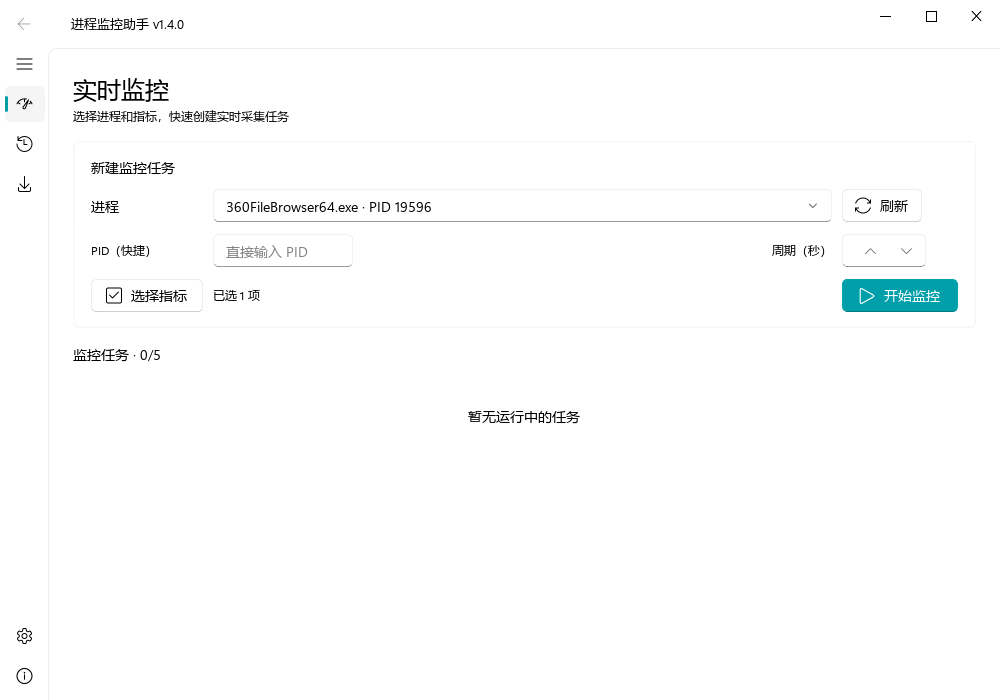
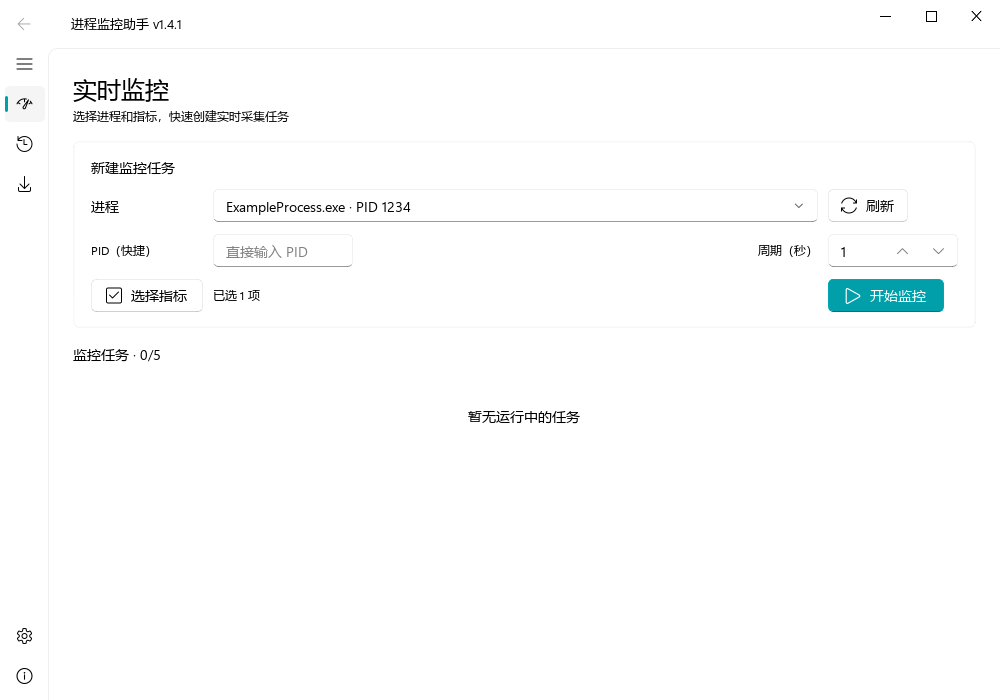
修复周期输入框显示并发布 v1.4.1

diff --git a/tests/test_monitor_ui_contract.py b/tests/test_monitor_ui_contract.py
@@ -1,0 +1,20 @@
+"""实时监控页 Fluent 布局契约。"""
+
+from ui.pages.monitor_page import MonitorPage
+
+
+def test_interval_spinbox_keeps_maximum_value_visible(qapp, monkeypatch):
+    """周期输入框必须为范围最大值保留完整的文本编辑区域。"""
+    monkeypatch.setattr(MonitorPage, "_refresh_process_list", lambda self: None)
+    page = MonitorPage()
+    page.resize(800, 600)
+    page.show()
+
+    spinbox = page.interval_spinbox
+    spinbox.setValue(spinbox.maximum())
+    qapp.processEvents()
+
+    value_width = spinbox.fontMetrics().horizontalAdvance(spinbox.text())
+    assert spinbox.lineEdit().width() >= value_width
+
+    page.close()

diff --git a/ui/pages/monitor_page.py b/ui/pages/monitor_page.py
@@ -393,7 +393,8 @@ class MonitorPage(QScrollArea):
         self.interval_spinbox = SpinBox()
         self.interval_spinbox.setRange(1, 3600)  # 1-3600秒
         self.interval_spinbox.setValue(cfg.get(cfg.default_interval))  # 默认值取自设置页
-        self.interval_spinbox.setFixedWidth(84)
+        # 普通 Fluent SpinBox 横排两个步进按钮，宽度交由其尺寸提示计算，
+        # 避免紧凑布局把内部数值编辑区压缩为 0。
         select_layout.addWidget(self.interval_spinbox, 2, 3)
 
         # 监控指标选择（弹出多选对话框）

diff --git a/config.py b/config.py
@@ -8,7 +8,7 @@ import os
 
 # 应用信息
 APP_NAME = "进程监控助手"
-APP_VERSION = "1.4.0"
+APP_VERSION = "1.4.1"
 
 # GitHub 仓库信息（自动更新用）
 GITHUB_OWNER = "liujialu0330"

diff --git a/doc/代码架构说明.md b/doc/代码架构说明.md
@@ -211,7 +211,7 @@ ProcessMonitor/
 │   ├── crash_handler.py         # 全局异常兜底与崩溃日志（v1.2.0新增）
 │   └── thread_utils.py          # 后台QThread收尾清理工具（v1.2.0新增）
 │
-├── tests/                       # 自动化测试（v1.2.0新增基座，当前100个用例）
+├── tests/                       # 自动化测试（v1.2.0新增基座，当前101个用例）
 │   ├── conftest.py              # 公共fixture（临时数据库、app_config重置等）
 │   ├── test_database.py         # 数据层基础操作 + since_iso/统计/占用/压缩（v1.3.0扩展）
 │   ├── test_migration.py        # Schema迁移三态
@@ -222,6 +222,7 @@ ProcessMonitor/
 │   ├── test_flush_retry.py      # 落库失败重试
 │   ├── test_stop_race.py        # 停止时序竞态
 │   ├── test_monitor_page_no_query.py  # 采集计数内存自增（不查库）
+│   ├── test_monitor_ui_contract.py    # 监控页周期输入框数值可见性契约（v1.4.1新增）
 │   ├── test_app_config.py       # app_config持久化/默认值/回落（v1.3.0新增）
 │   ├── test_pause_resume.py     # MonitorTask暂停/恢复行为（v1.3.0新增）
 │   ├── test_sparkline.py        # SparklineWidget绘制不崩溃（v1.3.0新增）
@@ -253,7 +254,7 @@ ProcessMonitor/
 | `ui/main_window.py` | 380 | FluentWindow主窗口（五页导航、系统托盘、孤儿任务校正、closeEvent try/finally清理，v1.3.0大幅扩充） | PyQt5, qfluentwidgets, utils.thread_utils, app_config |
 | `ui/chart_theme.py` | 31 | 图表主题配色助手（**v1.3.0新增**，按浅/深色主题返回历史页图表配色） | qfluentwidgets |
 | `ui/typography.py` | 115 | **v1.4.0新增**应用级字体栈与排版token（24/16/14/12px），统一Fluent、原生Qt和pyqtgraph的字体继承 | PyQt5, qfluentwidgets |
-| `ui/pages/monitor_page.py` | 760 | 实时监控UI和交互逻辑（v1.4.0重排进程主入口与任务卡层级；含多指标、搜索、暂停恢复、任务配额、空状态和趋势图） | PyQt5, qfluentwidgets, core, ui.components, app_config, ui.typography |
+| `ui/pages/monitor_page.py` | 761 | 实时监控UI和交互逻辑（v1.4.0重排进程主入口与任务卡层级；含多指标、搜索、暂停恢复、任务配额、空状态和趋势图；v1.4.1修复周期输入框显示） | PyQt5, qfluentwidgets, core, ui.components, app_config, ui.typography |
 | `ui/pages/history_page.py` | 1149 | 历史数据展示和可视化（响应式筛选、四列统计条、趋势/明细子视图、统一单位/刻度字体、限流+分桶降采样、悬停读数/图表导出/主题联动） | PyQt5, pyqtgraph, data, ui.chart_theme, ui.typography |
 | `ui/pages/export_page.py` | 514 | 数据导出UI（v1.4.0收敛为单一连续流程，成功后按需打开目录；线程化导出委托core.export_worker） | PyQt5, qfluentwidgets, data, core.export_worker, ui.typography |
 | `ui/pages/setting_page.py` | 279 | 设置页面（v1.4.0合并为“常规/数据”两组，含主题、默认周期、托盘行为与数据库清理压缩后台线程） | PyQt5, qfluentwidgets, app_config, ui.components, ui.typography |
@@ -274,7 +275,7 @@ ProcessMonitor/
 | `utils/crash_handler.py` | ~85 | 全局异常兜底与崩溃日志（v1.2.0新增） | logging, faulthandler |
 | `utils/thread_utils.py` | ~35 | 后台QThread统一收尾清理（v1.2.0新增） | logging |
 
-**总计**：约 ~6,500 行代码（含空行/注释的 `wc -l` 粗略统计，口径与此前"不含注释和空行"的 ~4,900 行不完全一致；另有 `tests/` 目录十余个文件、**100 个用例**的自动化测试代码，未计入本表）
+**总计**：约 ~6,500 行代码（含空行/注释的 `wc -l` 粗略统计，口径与此前"不含注释和空行"的 ~4,900 行不完全一致；另有 `tests/` 目录十余个文件、**101 个用例**的自动化测试代码，未计入本表）
 
 ---
 
@@ -376,7 +377,7 @@ self.addSubInterface(
 
 **功能**：
 - 进程选择：PID输入或下拉列表双向同步；**下拉框改为`EditableComboBox`+`QCompleter`支持按名称/PID模糊搜索**（**v1.3.0新增，C1**，`setFilterMode(Qt.MatchContains)`+`setCaseSensitivity(Qt.CaseInsensitive)`子串匹配，输入"chro"可过滤定位到chrome.exe）
-- 监控指标多选（弹出`MetricSelectorDialog`对话框）和采集周期配置（默认值**v1.3.0起改读**`cfg.get(cfg.default_interval)`）
+- 监控指标多选（弹出`MetricSelectorDialog`对话框）和采集周期配置（默认值**v1.3.0起改读**`cfg.get(cfg.default_interval)`；**v1.4.1起普通 Fluent SpinBox 遵循动态尺寸提示，禁止固定窄宽度压缩数值编辑区**）
 - 创建和启动监控任务
 - 实时显示任务状态和多指标数据
 - 任务停止、**暂停/恢复**控制（**v1.3.0新增，C4**）
@@ -1210,9 +1211,9 @@ def chart_colors() -> dict:
 
 `configure_application_typography(app)`在`load_app_config()`之后、`MainWindow`构造之前调用：QFluentWidgets字体栈使用Segoe UI Variable/Segoe UI并回退Microsoft YaHei UI；同时设置`QApplication`字体，避免标准Qt控件、QCompleter和pyqtgraph轴文字落到宋体。`TypeScale`集中定义页面标题24、分区标题16、正文14、辅助/图表刻度12、核心统计18逻辑像素。`PageTitleLabel`/`DataLabel`/`DataCaptionLabel`/`StatValueLabel`提供语义化标签，未使用全局`* { font-family }` QSS，以免覆盖Fluent图标字体。
 
-### 22. 自动化测试（tests/，v1.2.0新增基座，当前100个用例）
+### 22. 自动化测试（tests/，v1.2.0新增基座，当前101个用例）
 
-基于pytest，共**100**个用例，覆盖数据层、迁移、导出、更新检查、用户配置、暂停恢复、历史页信息架构与窄窗口响应式、排版token、指标显示格式、UI组件绘制、关闭/托盘行为等关键路径，均使用`tmp_path`临时数据库/文件+offscreen渲染，不污染项目`data\monitor.db`：
+基于pytest，共**101**个用例，覆盖数据层、迁移、导出、更新检查、用户配置、暂停恢复、监控页与历史页布局契约、排版token、指标显示格式、UI组件绘制、关闭/托盘行为等关键路径，均使用`tmp_path`临时数据库/文件+offscreen渲染，不污染项目`data\monitor.db`：
 
 | 文件 | 覆盖范围 |
 |-----|---------|
@@ -1225,6 +1226,7 @@ def chart_colors() -> dict:
 | `test_flush_retry.py` | `MonitorTask`落库失败重试与缓冲上限 |
 | `test_stop_race.py` | 停止任务的时序竞态（收尾落库先于`task_stopped`信号） |
 | `test_monitor_page_no_query.py` | 采集计数改内存自增后不再触发查库 |
+| `test_monitor_ui_contract.py`（**v1.4.1新增**） | 周期输入框为最大值3600保留完整文本编辑区域，防止 Fluent 步进按钮挤占数值显示 |
 | `test_app_config.py`（**v1.3.0新增**） | 默认值、持久化roundtrip、非法值回落、首启主题默认AUTO |
 | `test_pause_resume.py`（**v1.3.0新增**） | `MonitorTask`暂停置位并跳过采集、恢复重启采集、暂停态停止在超时内终止 |
 | `test_sparkline.py`（**v1.3.0新增**） | `SparklineWidget`缓冲区maxlen截断、clear语义、四态绘制不崩溃 |
@@ -1454,7 +1456,7 @@ WINDOW_HEIGHT = 700
 | **Git** | 版本控制 |
 | **PyInstaller** | 打包成exe（v1.2.0起改为onedir目录模式，替代此前的onefile单文件模式，启动更快） |
 | **Inno Setup** | 制作安装包（安装包体积从59.2MB降至42.5MB，v1.2.0） |
-| **pytest** | 自动化测试（v1.2.0新增基座，`tests/`目录当前100个用例） |
+| **pytest** | 自动化测试（v1.2.0新增基座，`tests/`目录当前101个用例） |
 
 ### 技术选型理由
 
@@ -2105,6 +2107,6 @@ DEFAULT_INTERVAL = USER_CONFIG.get('interval', 1.0)
 
 ---
 
-**文档版本**：v1.4（对应代码 v1.4.0 Fluent界面与排版优化）
-**最后更新**：2026-07-13
+**文档版本**：v1.4.1（对应代码 v1.4.1 周期输入框显示修复）
+**最后更新**：2026-07-16
 **维护者**：开发团队

diff --git a/CHANGELOG.md b/CHANGELOG.md
@@ -4,6 +4,11 @@
 
 ### 未发布
 
+### v1.4.1 (2026-07-16)
+- 修复实时监控页“周期（秒）”输入框过窄，导致数值编辑区被 Fluent 步进按钮压缩为零、界面只显示箭头的问题
+- 周期控件恢复使用 Fluent SpinBox 的动态尺寸提示，确保 1–3600 秒数值完整可见
+- 自动化测试增至 101 个，新增周期输入框最大值可见性布局契约
+
 ### v1.4.0 (2026-07-13)
 - 保持 Fluent 视觉体系，统一实时监控、历史数据、数据导出、设置和关于页面的标题、间距与操作层级
 - 历史数据页重构为响应式两行筛选、四列统计条和“趋势/明细”子视图；默认查看任务最后 1 小时，原始值与删除操作改为按需显示，移除分桶实现说明等常驻长文案

diff --git a/README.md b/README.md
@@ -49,7 +49,7 @@ ProcessMonitor is a Windows 11 Fluent Design desktop app for keeping an eye on a
 ### 🛡 Reliability
 - **Auto-update** — checks GitHub Releases on startup (or on demand) and downloads/launches the installer for you; the startup check now shows a non-modal notice instead of interrupting you
 - **Crash-resilient storage** — SQLite with WAL mode, automatic retry on failed writes, crash/error logging, and automatic recovery of orphaned "running" tasks after an unclean shutdown
-- **Automated test suite** — 100 test cases covering the data layer, schema migration, export, update checks, responsive history layout, typography and metric formatting
+- **Automated test suite** — 101 test cases covering the data layer, schema migration, export, update checks, responsive monitor/history layouts, typography and metric formatting
 - **Measured performance** — opening a 770k-row history task takes ~1.4s (down from 3.4s pre-v1.2.0; measured on the maintainer's dev machine)
 
 ## 📸 Screenshots

diff --git a/README.zh-CN.md b/README.zh-CN.md
@@ -49,7 +49,7 @@
 ### 🛡 稳定性
 - **自动更新**：启动时（或手动）检测 GitHub Release 新版本，可直接下载并启动安装向导；启动时的静默检查现在改为非模态提示，不再打断当前操作
 - **抗崩溃存储**：SQLite 启用 WAL 模式、数据落库失败自动重试、崩溃与异常自动记录日志，程序意外退出后再次启动会自动修正遗留的"运行中"任务状态
-- **自动化测试基座**：100 个用例覆盖数据层、数据库迁移、导出、更新检查、历史页响应式、排版与指标格式等核心逻辑
+- **自动化测试基座**：101 个用例覆盖数据层、数据库迁移、导出、更新检查、监控页与历史页响应式布局、排版及指标格式等核心逻辑
 - **实测性能**：77 万行规模的历史任务，打开耗时约 1.4 秒（v1.2.0 优化前为 3.4 秒；数据来自维护者本机实测）
 
 ## 📸 界面截图

diff --git a/doc/PRD_进程监控助手.md b/doc/PRD_进程监控助手.md
@@ -4,6 +4,7 @@
 
 | 版本号 | 日期 | 修订内容 | 作者 |
 |--------|------|----------|------|
+| v1.4.1 | 2026-07-16 | 修复实时监控页周期输入框被 Fluent 步进按钮挤压、无法显示秒数的问题；控件改为遵循动态尺寸提示；新增最大周期值可见性布局回归测试，自动化测试增至101个 | 测试团队 |
 | v1.4.0 | 2026-07-13 | Fluent界面信息架构与排版统一：五个页面统一标题、间距与操作层级；新增应用级中文排版系统；历史页改为响应式筛选、统计条与趋势/明细子视图，并按量级自适应数据单位；监控页突出进程入口并重排任务卡片；导出页收敛为单一流程；设置页合并为常规/数据两组；关于页优化产品信息与更新说明层级；自动化测试增至100个 | 测试团队 |
 | v1.3.0 | 2026-07-12 | UI体验全面升级：历史图表悬停十字线与数值读数、时间范围快捷切换、统计摘要、真实时间轴、图表导出PNG/复制剪贴板、深浅色主题跟随；新增"设置"页面（应用主题/默认采集周期/历史数据保留策略/数据库占用查看与清理压缩/数据目录/关闭最小化到托盘）；实时监控页新增进程模糊搜索、任务配额常驻、空状态提示、暂停/恢复、任务卡片迷你趋势图；新增系统托盘常驻；启动静默检查更新改为非模态提示 | 测试团队 |
 | v1.2.0 | 2026-07-03 | 架构重构：稳定性强化（崩溃兜底、日志、WAL、迁移三态、孤儿任务校正）、历史页表格限流与图表分桶降采样、导出线程化、任务数据删除、可选自动清理、测试基座、打包改onedir瘦身提速 | 测试团队 |
@@ -555,6 +556,7 @@
 - [x] 实时监控页突出进程搜索主入口，任务卡按身份、状态、实时值、趋势和操作重新分层 (v1.4.0)
 - [x] 数据导出页收敛为单一连续流程，完成后仅在用户点击时打开目标文件夹；设置页合并为“常规/数据”两组；关于页优化产品信息和更新说明层级 (v1.4.0)
 - [x] 自动化测试增至100个，覆盖历史页信息架构与窄窗口响应式、排版token和指标格式契约 (v1.4.0)
+- [x] 修复实时监控页周期输入框数值区被压缩的问题，并增加最大值3600完整可见的布局回归测试 (v1.4.1)
 
 ### 9.2 后续规划功能
 > 以下功能尚未实现，暂未纳入具体版本计划。